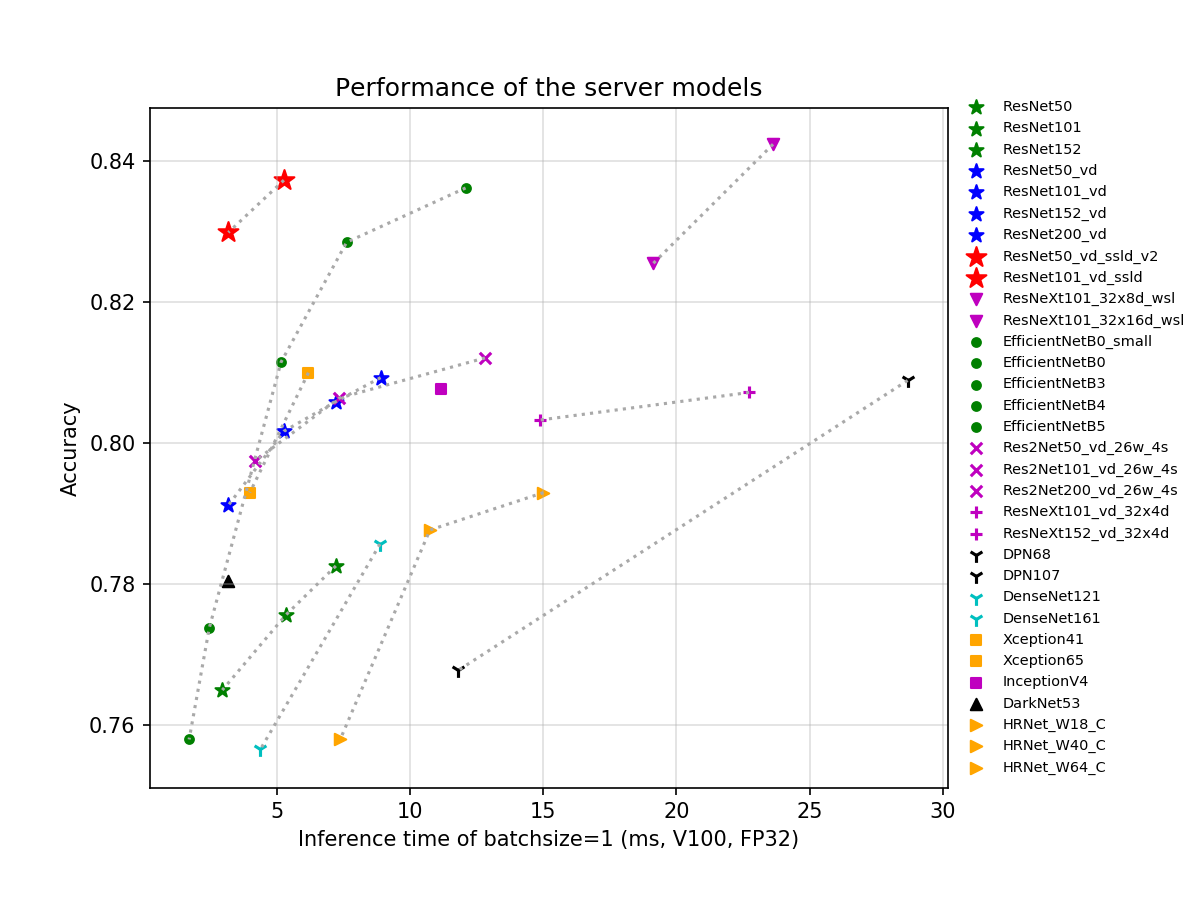
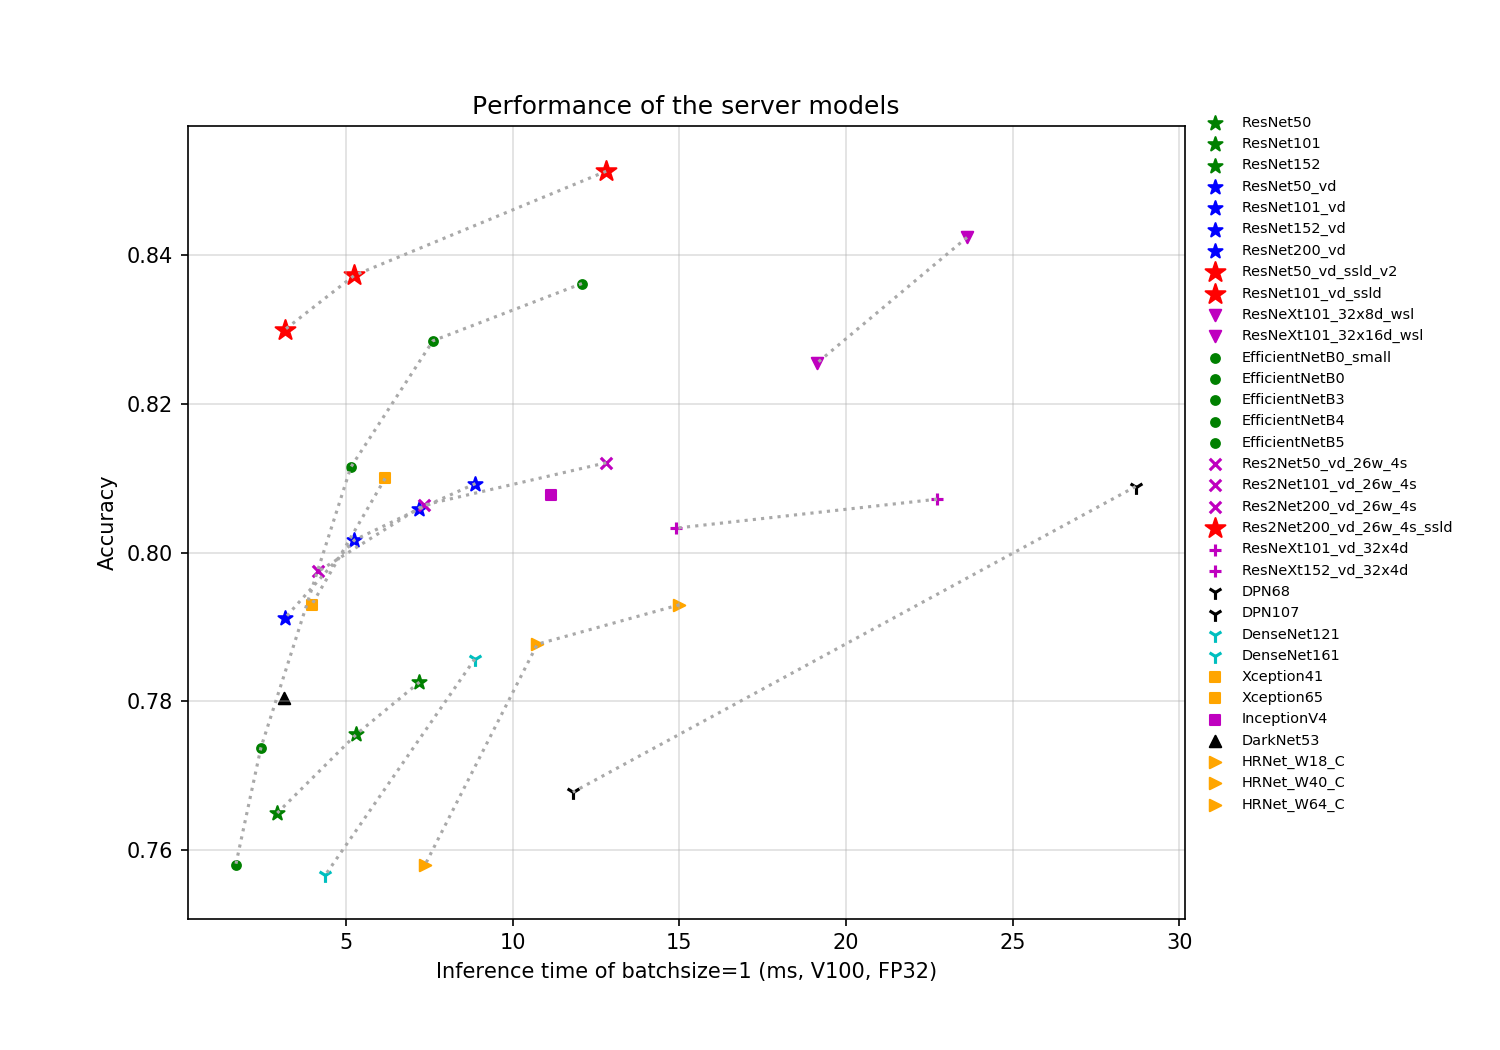
add res2net200_vd_26w_4s_ssld doc

diff --git a/docs/en/models/SEResNext_and_Res2Net_en.md b/docs/en/models/SEResNext_and_Res2Net_en.md
@@ -33,6 +33,7 @@ At present, there are a total of 24 pretrained models of the three categories op
 | Res2Net50_14w_8s      | 0.795  | 0.947  | 0.781             | 0.939             | 9.010        | 25.720            |
 | Res2Net101_vd_26w_4s  | 0.806  | 0.952  |                   |                   | 16.670       | 45.220            |
 | Res2Net200_vd_26w_4s  | 0.812  | 0.957  |                   |                   | 31.490       | 76.210            |
+| Res2Net200_vd_26w_4s_ssld  | **0.851**  | 0.974  |                   |                   | 31.490       | 76.210            |
 | ResNeXt50_32x4d       | 0.778  | 0.938  | 0.778             |                   | 8.020        | 23.640            |
 | ResNeXt50_vd_32x4d    | 0.796  | 0.946  |                   |                   | 8.500        | 23.660            |
 | ResNeXt50_64x4d       | 0.784  | 0.941  |                   |                   | 15.060       | 42.360            |

diff --git a/docs/en/advanced_tutorials/distillation/distillation_en.md b/docs/en/advanced_tutorials/distillation/distillation_en.md
@@ -82,6 +82,7 @@ Training process is carried out on the large-scale dataset with 5 million images
 | MobileNetV3_small_x1_0 | 360 | 1e-5 |  5760/24 | 3.65625 | cosine_decay_warmup | 70.11% |
 | ResNet50_vd | 360 | 7e-5 | 1024/32 | 0.4 | cosine_decay_warmup | 82.07% |
 | ResNet101_vd | 360 | 7e-5 | 1024/32 | 0.4 | cosine_decay_warmup | 83.41% |
+| Res2Net200_vd_26w_4s | 360 | 4e-5 | 1024/32 | 0.4 | cosine_decay_warmup | 84.82% |
 
 ## finetuning using ImageNet1k
 
@@ -96,6 +97,7 @@ Finetuning is carried out on ImageNet1k dataset to restore distribution between 
 | MobileNetV3_small_x1_0 | 30 | 1e-5 |  6400/32 | 0.025 | cosine_decay_warmup | 71.28% |
 | ResNet50_vd | 60 | 7e-5 | 1024/32 | 0.004 | cosine_decay_warmup | 82.39% |
 | ResNet101_vd | 30 | 7e-5 | 1024/32 | 0.004 | cosine_decay_warmup | 83.73% |
+| Res2Net200_vd_26w_4s | 360 | 4e-5 | 1024/32 | 0.004 | cosine_decay_warmup | 85.13% |
 
 ## Data agmentation and Fix strategy
 

diff --git a/docs/zh_CN/models/SEResNext_and_Res2Net.md b/docs/zh_CN/models/SEResNext_and_Res2Net.md
@@ -32,6 +32,7 @@ Res2Net是2019年提出的一种全新的对ResNet的改进方案，该方案可
 | Res2Net50_14w_8s      | 0.795  | 0.947  | 0.781             | 0.939             | 9.010        | 25.720            |
 | Res2Net101_vd_26w_4s  | 0.806  | 0.952  |                   |                   | 16.670       | 45.220            |
 | Res2Net200_vd_26w_4s  | 0.812  | 0.957  |                   |                   | 31.490       | 76.210            |
+| Res2Net200_vd_26w_4s  | **0.851**  | 0.974  |                   |                   | 31.490       | 76.210            |
 | ResNeXt50_32x4d       | 0.778  | 0.938  | 0.778             |                   | 8.020        | 23.640            |
 | ResNeXt50_vd_32x4d    | 0.796  | 0.946  |                   |                   | 8.500        | 23.660            |
 | ResNeXt50_64x4d       | 0.784  | 0.941  |                   |                   | 15.060       | 42.360            |

diff --git a/docs/zh_CN/advanced_tutorials/distillation/distillation.md b/docs/zh_CN/advanced_tutorials/distillation/distillation.md
@@ -85,6 +85,7 @@ SSLD的流程图如下图所示。
 | MobileNetV3_small_x1_0 | 360 | 1e-5 |  5760/24 | 3.65625 | cosine_decay_warmup | 70.11% |
 | ResNet50_vd | 360 | 7e-5 | 1024/32 | 0.4 | cosine_decay_warmup | 82.07% |
 | ResNet101_vd | 360 | 7e-5 | 1024/32 | 0.4 | cosine_decay_warmup | 83.41% |
+| Res2Net200_vd_26w_4s | 360 | 4e-5 | 1024/32 | 0.4 | cosine_decay_warmup | 84.82% |
 
 ## 3.3 ImageNet1k训练集finetune
 
@@ -99,6 +100,7 @@ SSLD的流程图如下图所示。
 | MobileNetV3_small_x1_0 | 30 | 1e-5 |  6400/32 | 0.025 | cosine_decay_warmup | 71.28% |
 | ResNet50_vd | 60 | 7e-5 | 1024/32 | 0.004 | cosine_decay_warmup | 82.39% |
 | ResNet101_vd | 30 | 7e-5 | 1024/32 | 0.004 | cosine_decay_warmup | 83.73% |
+| Res2Net200_vd_26w_4s | 360 | 4e-5 | 1024/32 | 0.004 | cosine_decay_warmup | 85.13% |
 
 
 ## 3.4 数据增广以及基于Fix策略的微调

diff --git a/docs/en/models/models_intro_en.md b/docs/en/models/models_intro_en.md
@@ -130,6 +130,7 @@ python tools/infer/predict.py \
     - [Res2Net50_14w_8s](https://paddle-imagenet-models-name.bj.bcebos.com/Res2Net50_14w_8s_pretrained.tar)
     - [Res2Net101_vd_26w_4s](https://paddle-imagenet-models-name.bj.bcebos.com/Res2Net101_vd_26w_4s_pretrained.tar)
     - [Res2Net200_vd_26w_4s](https://paddle-imagenet-models-name.bj.bcebos.com/Res2Net200_vd_26w_4s_pretrained.tar)
+    - [Res2Net200_vd_26w_4s_ssld](https://paddle-imagenet-models-name.bj.bcebos.com/Res2Net200_vd_26w_4s_ssld_pretrained.tar)
 
 
 - Inception series

diff --git a/docs/zh_CN/models/models_intro.md b/docs/zh_CN/models/models_intro.md
@@ -130,6 +130,7 @@ python tools/infer/predict.py \
     - [Res2Net50_14w_8s](https://paddle-imagenet-models-name.bj.bcebos.com/Res2Net50_14w_8s_pretrained.tar)
     - [Res2Net101_vd_26w_4s](https://paddle-imagenet-models-name.bj.bcebos.com/Res2Net101_vd_26w_4s_pretrained.tar)
     - [Res2Net200_vd_26w_4s](https://paddle-imagenet-models-name.bj.bcebos.com/Res2Net200_vd_26w_4s_pretrained.tar)
+    - [Res2Net200_vd_26w_4s_ssld](https://paddle-imagenet-models-name.bj.bcebos.com/Res2Net200_vd_26w_4s_ssld_pretrained.tar)
 
 
 - Inception系列

diff --git a/docs/en/update_history_en.md b/docs/en/update_history_en.md
@@ -1,5 +1,9 @@
 # Release Notes
 
+* 2020.07.14
+    * Add `Res2Net200_vd_26w_4s_ssld` pretrained model, whose Top-1 Acc on ImageNet1k dataset reaches 85.13%.
+    * Add `Fix_ResNet50_vd_ssld_v2` pretrained model, whose Top-1 Acc on ImageNet1k dataset reaches 84.00%.
+
 * 2020.06.17
     * Add English documents。
 

diff --git a/docs/zh_CN/update_history.md b/docs/zh_CN/update_history.md
@@ -1,5 +1,9 @@
 # 更新日志
 
+* 2020.07.14
+    * 添加Res2Net200_vd_26w_4s_ssld模型，在ImageNet上Top-1 Acc可达85.13%。
+    * 添加Fix_ResNet50_vd_ssld_v2模型，，在ImageNet上Top-1 Acc可达84.0%。
+
 * 2020.06.17
     * 添加英文文档。
 
